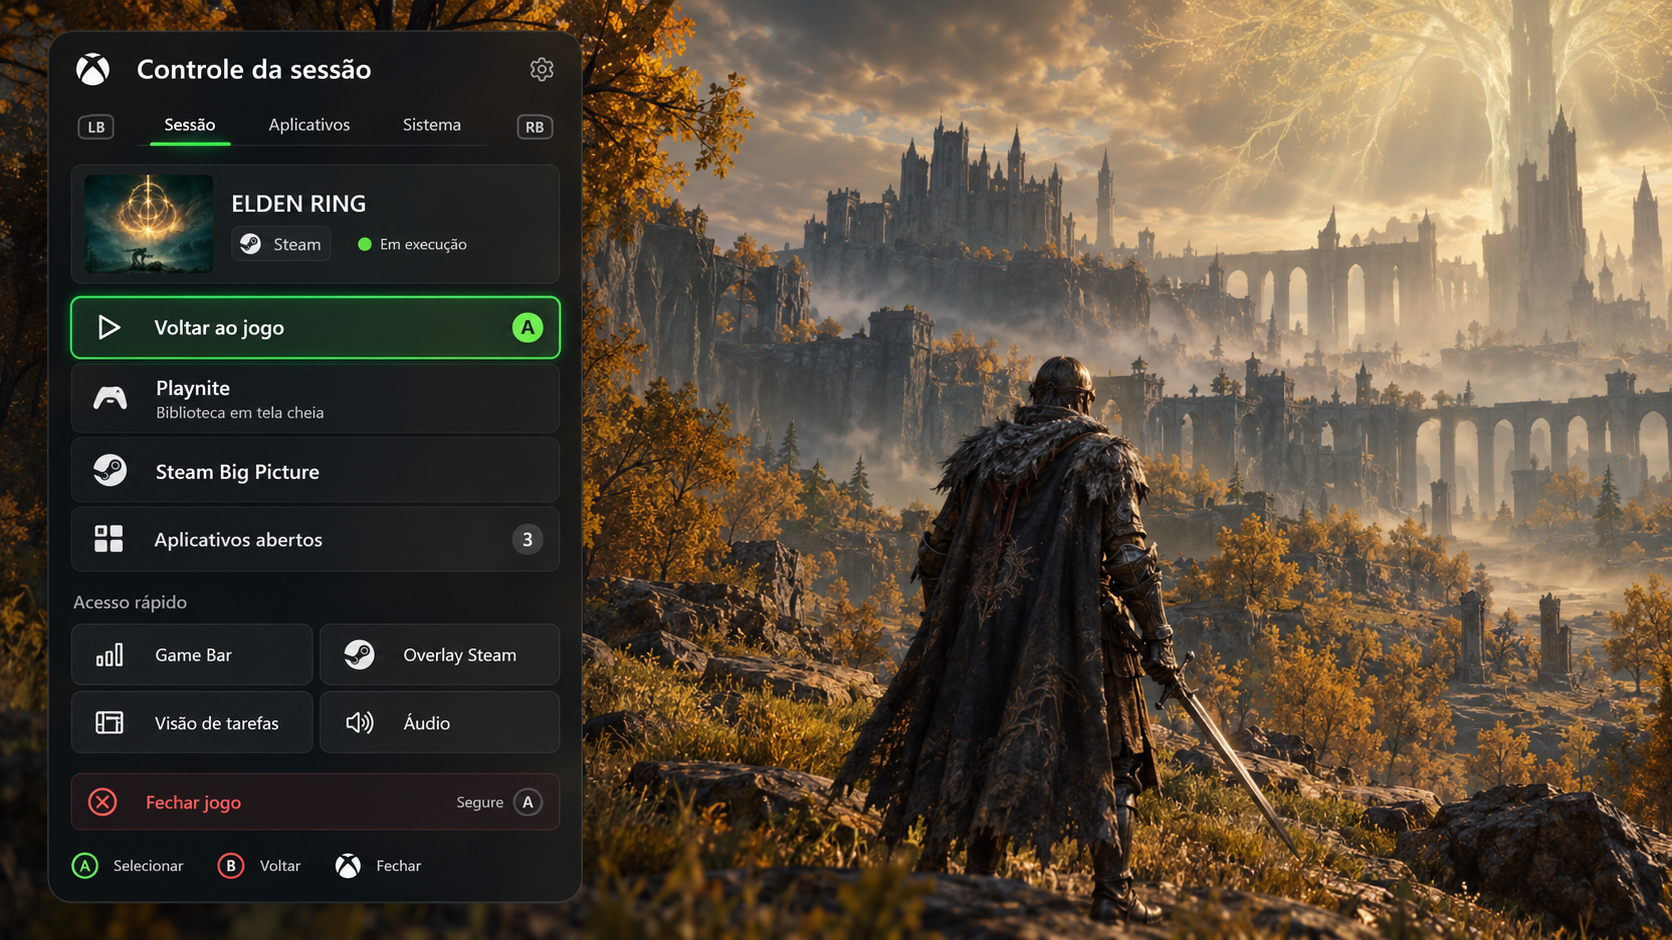
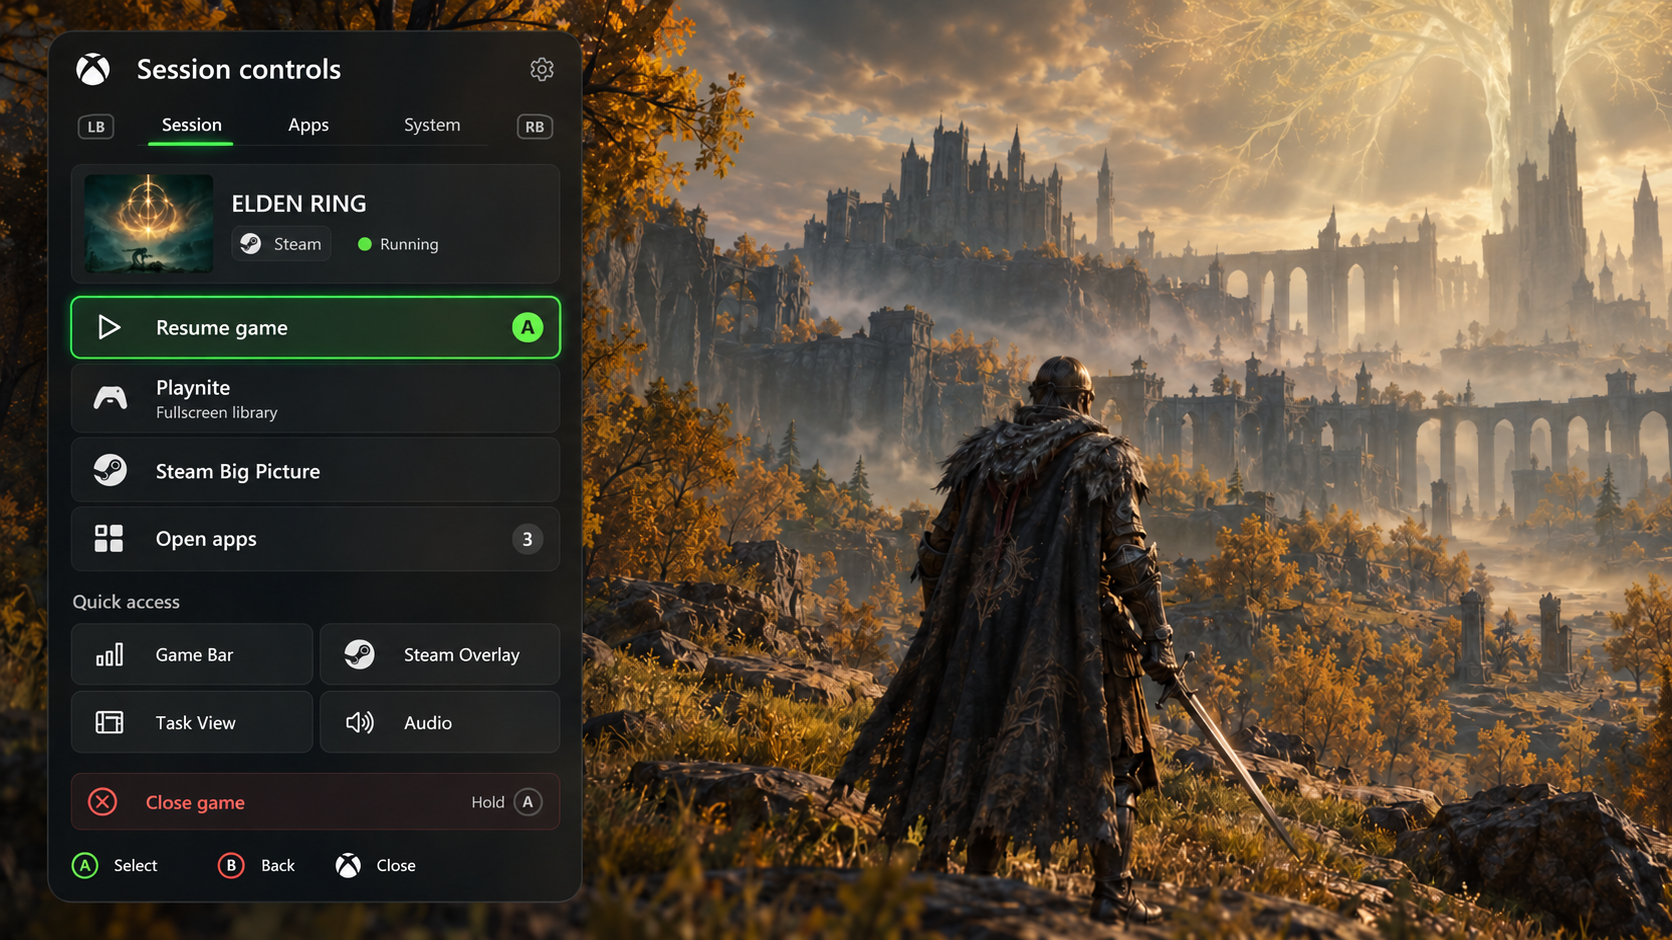
chore(i18n): complete English repository references

diff --git a/tests/ApolloOverlay.Tests/GuideAbiTests.cs b/tests/ApolloOverlay.Tests/GuideAbiTests.cs
@@ -1756,7 +1756,7 @@ internal static unsafe class GuideAbiTests
                     FinishFocus(w.OpeningTask);
                     w.Page(2);
                     Require(!w.ActionIds.Contains("hotkey") && !w.ActionIds.Contains("chord"));
-                    Require(ApolloOverlay.Program.AlreadyRunningMessage.Contains("bandeja") && !ApolloOverlay.Program.AlreadyRunningMessage.Contains("Ctrl"));
+                    Require(ApolloOverlay.Program.AlreadyRunningMessage.Contains("tray") && !ApolloOverlay.Program.AlreadyRunningMessage.Contains("Ctrl"));
                 }
                 finally
                 {

diff --git a/AGENTS.md b/AGENTS.md
@@ -36,6 +36,8 @@ Start every PR description with a concise summary, followed by `## Changes` list
 
 Conserve the GitHub Actions allowance. Automatic Windows CI runs on pushes to `main`, normally after a merge, and validates the integrated source before any stable publication. Feature-branch pushes and PR updates must not trigger the Windows pipeline. The lightweight PR-title check runs only when a PR is opened or its title changes.
 
+Keep workflow definitions reusable. Use GitHub's API or CLI for one-off dispatches, cancellations, run cleanup and branch pruning instead of creating per-PR or single-use workflows. Deleting a temporary branch does not remove its workflow history from GitHub Actions.
+
 Batch related changes and use focused local checks during development. Dispatch Windows CI only when a coherent candidate needs Windows-only verification, consolidated pre-merge validation, diagnosis of a platform failure or a Testing preview. Documentation-only and metadata-only changes do not justify a full CI run. A Testing publication already includes full validation; do not dispatch a separate validation run immediately before it. Repeat checks only when new changes, failures or unresolved concerns justify the cost. Preserve checks required for integration and publication.
 
 ## Visual evidence

diff --git a/docs/ui-reference-validation.md b/docs/ui-reference-validation.md
@@ -1,6 +1,8 @@
 # Interface reference coverage
 
-This follow-up implements the six user-provided concept boards and `IMPLEMENTACAO.txt` against the existing native WPF application. The user's later preferences take precedence over the boards' cold palette: warm charcoal, restrained amber/orange, warm off-white text and full semantic color customization.
+This follow-up implements the six user-provided concept boards and the accompanying implementation brief against the existing native WPF application. The user's later preferences take precedence over the boards' cold palette: warm charcoal, restrained amber/orange, warm off-white text and full semantic color customization.
+
+The [original concept reference](design/overlay-ideal-v1.png) has an English translation for contributors. It is concept art, not a screenshot of the application.
 
 ## Reference mapping
 
